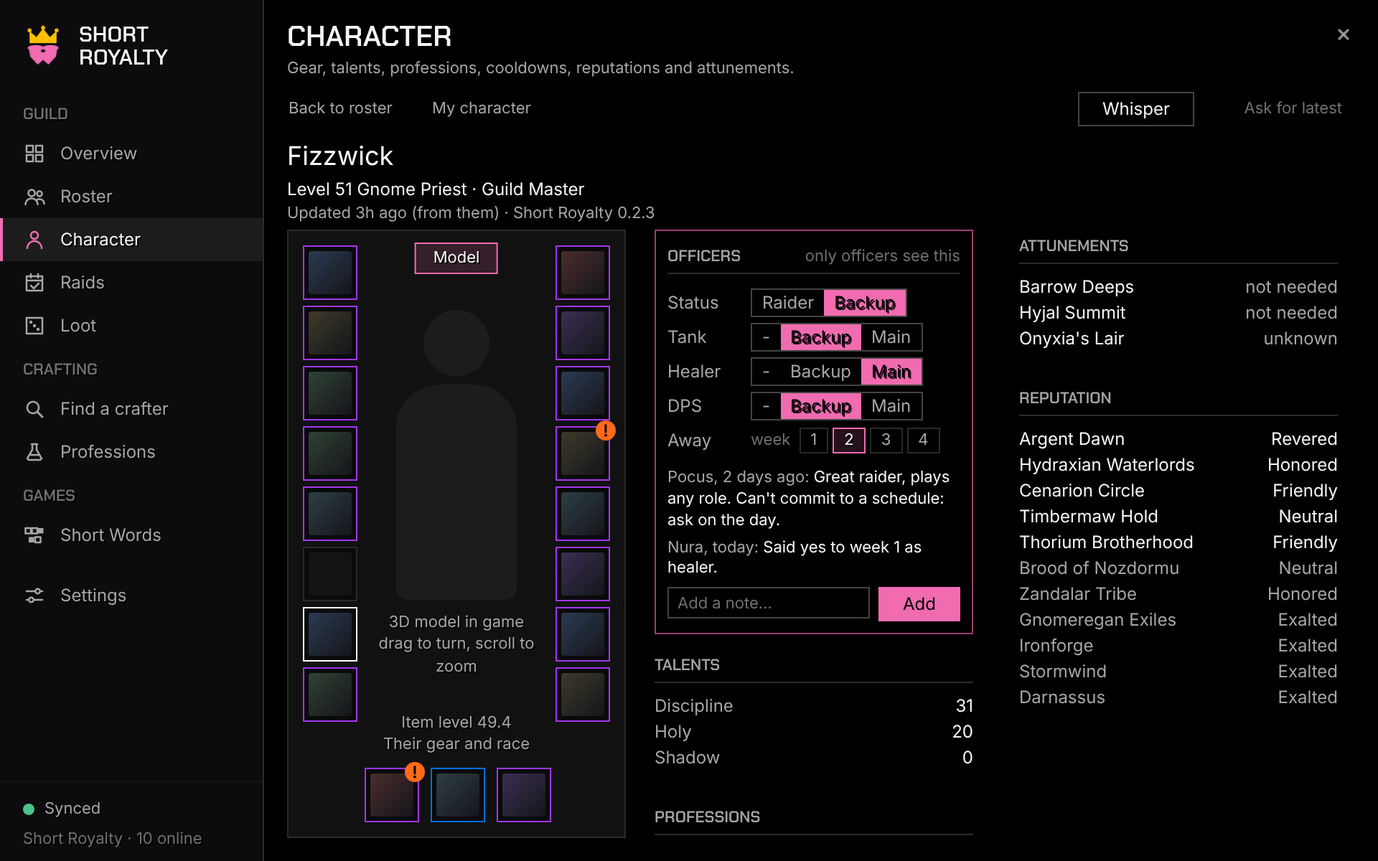
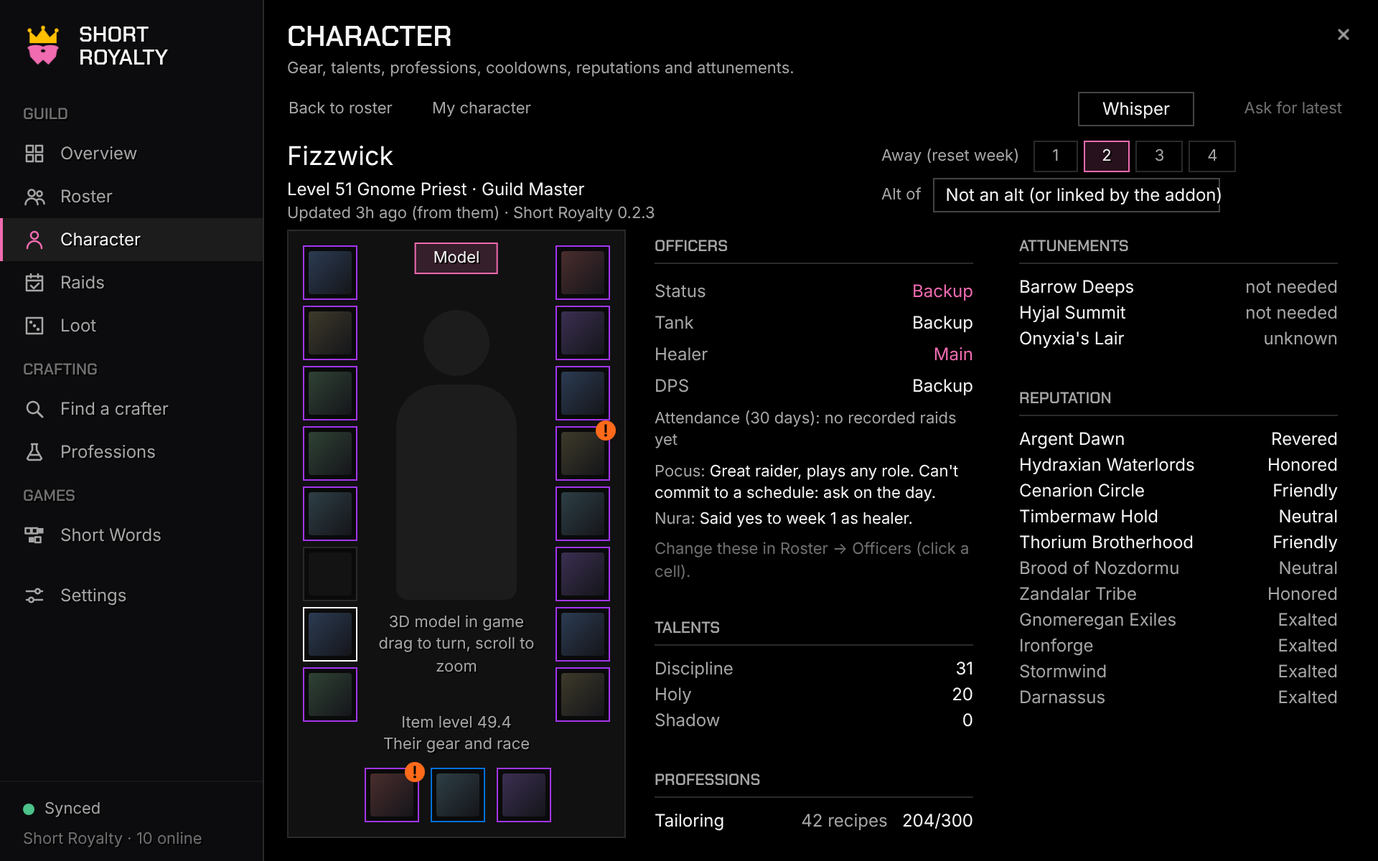
v0.13.0 (not released): docs, pictures and short spec names for the roster planner
Claude-Session: https://claude.ai/code/session_01A7mubGdPYGXe41A4ZcDyrF

diff --git a/preview/index.html b/preview/index.html
@@ -550,70 +550,65 @@ function rosterPlanner() {
     if (t === "b") return `<span style="display:inline-block;width:44px;text-align:center;border:1px solid var(--accent);color:var(--accentLit);font-size:11px;line-height:15px;box-sizing:border-box">Backup</span>`;
     return `<span class="faint" style="display:inline-block;width:44px;text-align:center">·</span>`;
   };
-  const W = { n: 96, sp: 52, st: 62, T: 62, H: 62, D: 62, l: 52, i: 34, a: 38, e: 40, seen: 42 };
-  if (S.planSel) { delete W.seen; delete W.e; delete W.sp; delete W.i; }
-  const NW = S.planSel ? 0 : 744 - Object.values(W).reduce((a, b) => a + b, 0) - 14;
-  const cell = (w, html, r) => `<span class="cell ${r ? "r" : ""}" style="width:${w}px">${html}</span>`;
-  const row = (r, idx) => {
-    const away = r[12] ? ' <span class="bad small">away week 1</span>' : "";
-    const cells = [cell(W.n, cls(r[0]) + (r[13] ? ` <span class="faint small">+${r[13]}</span>` : "")),
-      W.sp ? cell(W.sp, `<span class="dim">${r[1]}</span>`) : "",
-      cell(W.st, r[2] ? `<span class="${r[2] === "Raider" ? "dim" : "acc"}">${r[2]}</span>` : `<span class="spark">Not set</span>`),
-      cell(W.T, roleCell(r, "T")), cell(W.H, roleCell(r, "H")), cell(W.D, roleCell(r, "D")),
+  // Column widths as built (UI/RosterTab.lua PLAN_COLUMNS).
+  const W = { n: 118, sp: 56, st: 58, T: 54, H: 54, D: 54, l: 52, i: 52, a: 36, e: 36, seen: 44 };
+  const NW = 744 - Object.values(W).reduce((a, b) => a + b, 0) - 12;
+  const cell = (w, html, r, pad) => `<span class="cell ${r ? "r" : ""}" style="width:${w}px;${pad === 0 ? "padding:0;text-align:center" : ""}">${html}</span>`;
+  const ILG = { Jumpwick: 3, Plopper: 4, Procella: 2, Thalgrim: 2 };
+  const row = (r) => {
+    const extra = (r[13] ? ` <span class="faint small">+${r[13]}</span>` : "") + (r[12] ? ' <span class="bad small">away</span>' : "");
+    const cells = [cell(W.n, cls(r[0]) + extra),
+      cell(W.sp, `<span class="dim">${r[1]}</span>`),
+      cell(W.st, r[2] ? `<span class="${r[2] === "Raider" ? "dim" : "acc"}">${r[2]}</span>` : `<span class="spark">Not set</span>`, 0, 0),
+      cell(W.T, roleCell(r, "T"), 0, 0), cell(W.H, roleCell(r, "H"), 0, 0), cell(W.D, roleCell(r, "D"), 0, 0),
       cell(W.l, r[4] === 60 ? `<span class="good">60</span>` : `${r[4]}${r[5] ? ` <span class="good small">+${r[5]}</span>` : ""}`, 1),
-      W.i ? cell(W.i, r[6], 1) : "", cell(W.a, r[7] ? `<span class="good">yes</span>` : `<span class="faint">no</span>`, 1)];
-    if (W.e) cells.push(cell(W.e, r[8] ? `<span class="spark">${r[8]}</span>` : `<span class="faint">0</span>`, 1));
-    if (W.seen) cells.push(cell(W.seen, r[9] >= 7 ? `<span class="spark">${r[9]}d</span>` : r[9] ? `${r[9]}d` : `<span class="good">now</span>`, 1));
-    if (!S.planSel) cells.push(cell(NW, r[10] ? `<span class="dim">${esc(r[10])}</span>${away}` : (away || DASH)));
-    return `<div class="row click ${S.planSel && r[0].name === "Mirrel" ? "sel" : ""}">${cells.join("")}</div>`;
+      cell(W.i, `${r[6]}${ILG[r[0].name] ? ` <span class="good small">+${ILG[r[0].name]}</span>` : ""}`, 1),
+      cell(W.a, r[7] ? `<span class="good">yes</span>` : `<span class="faint">no</span>`, 1),
+      cell(W.e, r[8] ? `<span class="spark">${r[8]}</span>` : `<span class="faint">0</span>`, 1),
+      cell(W.seen, r[9] >= 7 ? `<span class="spark">${r[9]}d</span>` : r[9] ? `${r[9]}d` : `<span class="good">now</span>`, 1),
+      cell(NW, r[10] ? `<span class="dim">${esc(r[10])}</span>` : `<span class="faint">add</span>`)];
+    return `<div class="row click">${cells.join("")}</div>`;
   };
-  const shown = filter === "N" ? P.filter((r) => !r[2]) : P.filter((r) => r[3][filter]).sort((a, b) => (a[3][filter] === "m" ? 0 : 1) - (b[3][filter] === "m" ? 0 : 1));
-  const sep = (t) => `<div class="row" style="height:20px;background:var(--rule)"><span class="display faint" style="font-size:10px;letter-spacing:.08em;padding-left:4px">${t}</span></div>`;
+  const sep = (t, away) => `<div class="row" style="height:22px;background:var(--rule)"><span class="small dim" style="padding-left:6px;letter-spacing:.02em">${t}${away ? `  ·  <span class="bad">${away}</span>` : ""}</span></div>`;
   let body = "";
-  if (filter === "N") body = shown.map(row).join("");
+  if (filter === "A") body = P.map(row).join("");
+  else if (filter === "N") body = P.filter((r) => !r[2]).map(row).join("");
   else {
-    const mains = shown.filter((r) => r[3][filter] === "m"), backs = shown.filter((r) => r[3][filter] === "b");
-    body = sep(`MAIN ${mains.length}  ·  ALL 60  ·  ALL ATTUNED  ·  <span class="bad">BRANNOC AWAY WEEK 1</span>`) + mains.map(row).join("") + sep(`BACKUP ${backs.length}  ·  1 AT 60  ·  1 ATTUNED`) + backs.map(row).join("") + sep("NOT SORTED YET, SPEC FITS")
-      + P.filter((r) => !r[2] && r[15] === filter).map(row).join("");
+    const mains = P.filter((r) => r[3][filter] === "m"), backs = P.filter((r) => r[3][filter] === "b");
+    const n60 = (l) => l.filter((r) => r[4] === 60).length, att = (l) => l.filter((r) => r[7]).length;
+    const line = (t, l) => `${t} ${l.length}  ·  ${n60(l) === l.length ? "ALL" : n60(l)} AT 60  ·  ${att(l) === l.length ? "ALL" : att(l)} ATTUNED`;
+    const awayM = mains.filter((r) => r[12]).map((r) => r[0].name.toUpperCase());
+    body = sep(line("MAIN", mains), awayM.length ? awayM.join(", ") + " AWAY WEEK 1" : "") + mains.map(row).join("")
+      + sep(line("BACKUP", backs)) + backs.map(row).join("")
+      + sep("NOT SORTED YET, SPEC FITS") + P.filter((r) => !r[2] && r[15] === filter).map(row).join("");
   }
-  const headCols = [["n", "Name"], ["sp", "Spec"], ["st", "Status"], ["T", "Tank"], ["H", "Healer"], ["D", "DPS"], ["l", "Level", 1], ["i", "iLvl", 1], ["a", "Att.", 1], ["e", "Ench.", 1], ["seen", "Seen", 1]];
-  const head = `<div class="lhead">${headCols.filter(([k]) => W[k]).map(([k, t, r]) => `<span class="${r ? "r" : ""} ${k === filter ? "sorted" : ""}" style="width:${W[k]}px;${"THD".includes(k) && k.length === 1 ? "justify-content:center" : ""}">${t}</span>`).join("")}${S.planSel ? "" : `<span style="width:${NW}px">Note</span>`}</div>`;
-  // Role chips filter the list (mains, then backups, then unsorted people whose spec fits); counts = main + backup.
+  const headCols = [["n", "Name"], ["sp", "Spec"], ["st", "Status"], ["T", "Tank"], ["H", "Healer"], ["D", "DPS"], ["l", "Level", 1], ["i", "iLvl", 1], ["a", "Ony", 1], ["e", "Ench.", 1], ["seen", "Seen", 1]];
+  const head = `<div class="lhead">${headCols.map(([k, t, r]) => `<span class="${r ? "r" : ""}" style="width:${W[k]}px;${"THD".includes(k) && k.length === 1 ? "justify-content:center" : ""}">${t}</span>`).join("")}<span style="width:${NW}px">Note</span></div>`;
   const chips = [["A", "All", 46], ["T", "Tanks", "2+3"], ["H", "Healers", "4+3"], ["D", "DPS", "25+3"], ["N", "Not sorted", 12]]
-    .map(([k, t, n]) => `<span class="chip ${filter === k ? "on" : ""}">${t} <span class="${filter === k ? "" : "faint"}" style="margin-left:5px">${n}</span></span>`).join("");
-  const top = `<div class="abs" style="left:0;top:1px;display:flex;gap:4px">${chips}</div>
-    <div class="search" style="position:absolute;left:584px;top:0;width:160px"><input placeholder="Search name or note" value=""></div>
-    <div class="abs" style="left:0;top:33px;display:flex;gap:4px;align-items:center;width:744px">${["Raider", "Backup", "Needs a look 9"].map((t) => `<span class="chip" style="white-space:nowrap">${t}</span>`).join("")}
-      <span class="faint small" style="margin-left:10px;white-space:nowrap">Click a status, role or note to change it.</span>
-      <span style="margin-left:auto">${btn("Sign-ups for: none").replace("</span>", '<i class="arrow"></i></span>')}</span></div>`;
-  const cov = "", legend = "";
-  const listW = S.planSel ? 744 - 290 : 744;
-  const lst = `<div class="list" style="left:0;top:68px;bottom:0;width:${listW}px">${head}<div class="lbody" style="top:var(--sz-header)">${body}</div></div>`;
-  let drawer = "";
-  if (S.planSel) {
-    const seg = (opts, on) => `<span style="display:inline-flex;border:1px solid var(--lineStrong)">${opts.map((o) => `<span style="padding:2px 7px;font-size:12px;${o === on ? "background:var(--accent);color:var(--onAccent)" : "color:var(--dim)"}">${o}</span>`).join("")}</span>`;
-    const lbl = (t, y) => `<div class="abs display dim" style="left:14px;top:${y}px;font-size:10.5px;letter-spacing:.08em">${t}</div>`;
-    drawer = `<div class="abs" style="right:0;top:122px;bottom:0;width:282px;background:var(--surface);border:1px solid var(--lineStrong)">
-      <div class="abs" style="left:14px;top:8px;font-size:15px">${cls(C("SHAMAN", "Mirrel"))} <span class="dim small">Social</span></div>
-      <div class="abs dim small" style="left:14px;top:28px;width:256px;line-height:1.4">Resto (0/21/30)  ·  level 60  ·  iLvl 65  ·  attuned<br>Alts: <span style="color:#F48CBA">Mirrelia</span> 60 Holy, Mirrbank 12</div>
-      ${lbl("STATUS", 66)}<div class="abs" style="left:14px;top:82px">${seg(["Core", "Backup", "Trial", "Not raiding"], "Backup")}</div>
-      ${lbl("AWAY (RESET WEEKS)", 112)}<div class="abs" style="left:14px;top:128px;display:flex;gap:4px">${["Wk 1 · 9 Dec", "Wk 2", "Wk 3", "Wk 4"].map((d, i) => `<span class="chip ${i === 1 ? "on" : ""}">${d}</span>`).join("")}</div>
-      ${lbl("NOTES", 160)}
-      <div class="abs small" style="left:14px;top:176px;width:256px;line-height:1.35"><span class="dim">Pocus, 2 days ago:</span> Great raider, plays any role. Can't commit to a schedule: ask on the day.</div>
-      <div class="abs small" style="left:14px;top:226px;width:256px;line-height:1.35"><span class="dim">Nura, today:</span> Said yes to week 1 as healer.</div>
-      <div class="abs small faint" style="left:14px;top:262px;width:256px;height:30px;padding:6px 8px;box-sizing:border-box;background:var(--void);border:1px solid var(--lineStrong)">Add a note…</div>
-      <div class="abs" style="left:14px;top:300px">${btn("Add note", "primary")} ${btn("Character")}</div>
-      <div class="abs faint small" style="left:14px;top:334px;width:256px">Last 7 days: no change  ·  seen 2 days ago.</div></div>`;
-  }
+    .map(([k, t, n]) => `<span class="chip ${filter === k ? "on" : ""}" style="white-space:nowrap">${t}&nbsp;&nbsp;<span class="${filter === k ? "" : "faint"}">${n}</span></span>`).join("");
+  const summary = filter === "A"
+    ? "46 players  ·  31 at 60 (6 this week)  ·  8 at 55-59  ·  22 attuned to Onyxia  ·  11 missing enchants  ·  5 without the addon"
+    : "Click a status, role or note to change it. Click a name for their character. Planning: Week 1 (9 Dec).";
+  const top = `<div class="search abs" style="left:0;top:0;width:240px"><input placeholder="Search name, profession, note" value=""></div>
+    <div class="menu abs" style="left:248px;top:0;width:28px">${btn("···", "", 'style="padding:0;width:28px;justify-content:center"')}</div>
+    <span class="chip on" style="position:absolute;left:284px;top:1px">Officers</span>
+    <div class="abs dim small" style="right:0;top:6px">46 players  ·  officers only</div>
+    <div class="abs" style="left:0;top:34px;display:flex;gap:4px;align-items:center">${chips}<span style="width:12px"></span>${["Raider", "Backup", "Needs a look  9"].map((t) => `<span class="chip" style="white-space:nowrap">${t}</span>`).join("")}</div>
+    <div class="abs small dim ell" style="left:0;right:212px;top:${66 + 5}px">${summary}</div>
+    <div class="menu abs" style="right:0;top:66px;width:200px">${btn("Sign-ups: none").replace("</span>", '<i class="arrow"></i></span>')}</div>`;
+  const lst = `<div class="list" style="left:0;top:100px;bottom:0;width:744px">${head}<div class="lbody" style="top:var(--sz-header)">${body}</div></div>`;
+  // Clicking a role or status cell opens a small menu (no accidental changes).
+  const menu = S.planMenu ? `<div class="abs" style="left:${104 + 62 + 58 + 4}px;top:${100 + 22 + 22 + 22 * 2 + 22 + 2}px;width:120px;background:var(--surface);border:1px solid var(--lineStrong);z-index:6">
+      ${[["Main", 0], ["Backup", 1], ["No", 0]].map(([t, on]) => `<div class="small" style="height:24px;line-height:24px;padding-left:22px;position:relative;${t === "Main" ? "background:var(--raised)" : ""}">${on ? '<i style="position:absolute;left:8px;top:8px;width:8px;height:8px;border-radius:50%;background:var(--accent)"></i>' : ""}${t}</div>`).join("")}</div>` : "";
   // v3: clicking a note cell opens a small box over the table: every note with its author, and a line to add one.
   let notePop = "";
-  if (S.noteOpen) notePop = `<div class="abs" style="left:420px;top:${68 + 22 + 3 * 22 + 2 * 22 + 22 + 20}px;width:324px;background:var(--raised);border:1px solid var(--accent);padding:10px 12px;box-shadow:0 6px 18px rgba(0,0,0,.6);z-index:5">
-      <div style="display:flex;align-items:baseline"><span>${cls(C("SHAMAN", "Mirrel"))}</span><span class="display dim" style="font-size:10.5px;letter-spacing:.08em;margin-left:8px">NOTES</span><span class="faint small" style="margin-left:auto">Esc to close</span></div>
-      <div class="small" style="margin-top:6px;line-height:1.35"><span class="dim">Pocus, 2 days ago:</span> Great raider, plays any role. Can't commit to a schedule: ask on the day.</div>
-      <div class="small" style="margin-top:5px;line-height:1.35"><span class="dim">Nura, today:</span> Said yes to week 1 as healer.</div>
-      <div style="display:flex;gap:6px;margin-top:8px"><span class="small" style="flex:1;height:24px;line-height:22px;padding:0 6px;border:1px solid var(--accent);background:var(--void)">Happy to tank Onyxia if needed|</span>${btn("Add", "primary")}</div>
-      <div class="faint small" style="margin-top:6px">Your own notes can be edited or removed. Only officers see notes.</div></div>`;
-  return top + cov + legend + lst + drawer + notePop;
+  if (S.noteOpen) notePop = `<div class="abs" style="right:0;top:${100 + 22 + 22 + 22 * 2 + 22 * 2 + 22}px;width:330px;background:var(--raised);border:1px solid var(--accent);padding:10px 12px;box-shadow:0 6px 18px rgba(0,0,0,.6);z-index:5">
+      <div style="display:flex;align-items:baseline"><span>${cls(C("SHAMAN", "Mirrel"))}</span><span class="dim small" style="margin-left:8px">notes</span><span class="faint" style="margin-left:auto">×</span></div>
+      <div class="small" style="margin-top:6px;line-height:1.35"><span class="dim">Pocus, 2d ago:</span> Great raider, any role. Can't commit: ask on the day.</div>
+      <div class="small" style="margin-top:5px;line-height:1.35"><span class="dim">Nura, 3h ago:</span> Said yes to week 1 as healer.</div>
+      <div class="small" style="margin-top:8px;height:24px;line-height:22px;padding:0 6px;border:1px solid var(--lineStrong);background:var(--void)">Happy to tank Onyxia if needed|</div>
+      <div style="display:flex;gap:6px;margin-top:6px;align-items:center">${btn("Save my note", "primary")}${btn("Remove mine")}<span class="faint small" style="margin-left:auto">Officers only</span></div></div>`;
+  return top + lst + menu + notePop;
 }
 
 function roster() {
@@ -643,15 +638,20 @@ function roster() {
 // v0.13.0 (proposal v3): the officers' box on the Character page, for players
 // opened from the roster planner (officers only).
 function offBlock(w) {
-  const seg = (opts, on) => `<span style="display:inline-flex;border:1px solid var(--lineStrong)">${opts.map((o) => `<span style="padding:0 7px;font-size:12px;line-height:18px;${o === on ? "background:var(--accent);color:var(--onAccent)" : "color:var(--dim)"}">${o}</span>`).join("")}</span>`;
-  const r = (l, v) => `<div style="display:flex;align-items:center;height:24px"><span class="dim" style="width:58px">${l}</span>${v}</div>`;
-  return `<div class="block" style="border:1px solid var(--accentDeep);padding:6px 8px 8px;margin-bottom:10px"><div class="bhead"><span class="h display">Officers</span><span class="faint small">only officers see this</span></div>
-    ${r("Status", seg(["Raider", "Backup"], "Backup"))}
-    ${r("Tank", seg(["-", "Backup", "Main"], "Backup"))}${r("Healer", seg(["-", "Backup", "Main"], "Main"))}${r("DPS", seg(["-", "Backup", "Main"], "Backup"))}
-    ${r("Away", `<span style="display:flex;gap:3px;align-items:center"><span class="faint small" style="margin-right:3px">week</span>${["1", "2", "3", "4"].map((d, i) => `<span class="chip ${i === 1 ? "on" : ""}" style="height:18px;padding:0 7px">${d}</span>`).join("")}</span>`)}
-    <div class="small" style="margin-top:6px;line-height:1.35"><span class="dim">Pocus, 2 days ago:</span> Great raider, plays any role. Can't commit to a schedule: ask on the day.</div>
-    <div class="small" style="margin-top:4px;line-height:1.35"><span class="dim">Nura, today:</span> Said yes to week 1 as healer.</div>
-    <div style="display:flex;gap:6px;margin-top:6px"><span class="small faint" style="flex:1;height:22px;line-height:20px;padding:0 6px;border:1px solid var(--lineStrong);background:var(--void)">Add a note…</span>${btn("Add", "primary")}</div></div>`;
+  // As built (UI/CharacterTab.lua): read-only rows; changes happen in Roster → Officers.
+  const r = (l, v, tone) => `<div style="display:flex;height:22px;align-items:center"><span class="dim" style="flex:1">${l}</span><span class="${tone || ""}">${v}</span></div>`;
+  return `<div class="block"><div class="bhead"><span class="h display">Officers</span></div>
+    ${r("Status", "Backup", "acc")}${r("Tank", "Backup")}${r("Healer", "Main", "acc")}${r("DPS", "Backup")}
+    <div class="small dim" style="margin-top:4px">Attendance (30 days): no recorded raids yet</div>
+    <div class="small" style="margin-top:6px;line-height:1.35"><span class="dim">Pocus:</span> Great raider, plays any role. Can't commit to a schedule: ask on the day.</div>
+    <div class="small" style="margin-top:4px;line-height:1.35"><span class="dim">Nura:</span> Said yes to week 1 as healer.</div>
+    <div class="small faint" style="margin-top:6px">Change these in Roster → Officers (click a cell).</div></div>`;
+}
+// The officers' strip, top right of the Character page: away weeks and Alt of.
+function offStrip() {
+  return `<div class="abs" style="right:0;top:34px;width:330px">
+    <div style="display:flex;gap:4px;align-items:center"><span class="dim small" style="margin-right:6px">Away (reset week)</span>${[1, 2, 3, 4].map((w) => `<span class="chip ${w === 2 ? "on" : ""}">${w}</span>`).join("")}</div>
+    <div style="display:flex;gap:8px;align-items:center;margin-top:4px"><span class="dim small">Alt of</span><span class="menu" style="position:relative;width:200px">${btn("Not an alt (or linked by the addon)").replace("</span>", '<i class="arrow"></i></span>')}</span></div></div>`;
 }
 
 function character() {
@@ -697,7 +697,7 @@ function character() {
         ${block("Reputation", [["Argent Dawn", "Revered"], ["Hydraxian Waterlords", "Honored"], ["Cenarion Circle", "Friendly"], ["Timbermaw Hold", "Neutral"], ["Thorium Brotherhood", "Friendly"],
           ["Brood of Nozdormu", "Neutral"], ["Zandalar Tribe", "Honored"]].map((r, i) => ({ label: r[0], lt: i < 5 ? 1 : 0, value: r[1], tone: i < 5 ? "" : "dim" })).concat(
           ["Gnomeregan Exiles", "Ironforge", "Stormwind", "Darnassus"].map((f) => ({ label: f, value: "Exalted", tone: "dim" }))))}</div>`;
-  return head + `<div class="abs ell" style="left:0;right:0;top:34px;font-size:var(--fnm);line-height:22px">${cls(m)}</div>
+  return head + (S.offCard ? offStrip() : "") + `<div class="abs ell" style="left:0;right:0;top:34px;font-size:var(--fnm);line-height:22px">${cls(m)}</div>
     <div class="abs" style="left:0;top:60px">${info}</div><div class="abs dim ell small" style="left:0;right:0;top:77px">${meta}</div>
     <div class="doll">${doll}${center}</div>${details}`;
 }
@@ -1395,7 +1395,7 @@ function seg(id) {
 try { Object.assign(S, JSON.parse(localStorage.getItem("skPreview") || "{}")); } catch (e) { /* ignore */ }
 // ?screen=roster&data=worst&view=before&raid=ony  (and &shot=1 for the README pictures: window only, no chrome)
 const Q = new URLSearchParams(location.search);
-for (const k of ["screen", "data", "view", "raid", "prof", "profView", "start", "crafter", "remind", "model", "accent", "font", "setView", "wordsView", "wordsBoard", "wordsDone", "wordsCB", "raidsView", "attView", "officer", "lootView", "lootMode", "rosterView", "planSel", "planRole", "offCard", "charIdx", "noteOpen"]) if (Q.get(k)) S[k] = Q.get(k);
+for (const k of ["screen", "data", "view", "raid", "prof", "profView", "start", "crafter", "remind", "model", "accent", "font", "setView", "wordsView", "wordsBoard", "wordsDone", "wordsCB", "raidsView", "attView", "officer", "lootView", "lootMode", "rosterView", "planSel", "planRole", "offCard", "charIdx", "noteOpen", "planMenu"]) if (Q.get(k)) S[k] = Q.get(k);
 const SHOT = Q.get("shot");
 if (SHOT) {
   document.body.classList.add("shot"); S.view = SHOT === "compare" ? "before" : "after"; S.reduce = true;

diff --git a/docs/mockups/render.js b/docs/mockups/render.js
@@ -42,9 +42,9 @@ const SHOTS = {
   "raids-groups": ["shot=1&screen=raids&data=full&officer=1&raidsView=groups", W, H],
   "raids-assign": ["shot=1&screen=raids&data=full&officer=1&raidsView=assign", W, H],
   "raids-calendar": ["shot=1&screen=raids&data=full&raidsView=calendar", W, H],
-  "roster-officers": ["shot=1&screen=roster&data=full&officer=1&rosterView=officers", W, H],
-  "roster-planner": ["shot=1&screen=roster&data=full&officer=1&rosterView=planner", W, H],
-  "roster-planner-note": ["shot=1&screen=roster&data=full&officer=1&rosterView=planner&noteOpen=1", W, H],
+  "roster-planner": ["shot=1&screen=roster&data=full&officer=1&rosterView=planner&planRole=T&planMenu=1", W, H],
+  "roster-planner-all": ["shot=1&screen=roster&data=full&officer=1&rosterView=planner&planRole=A", W, H],
+  "roster-planner-note": ["shot=1&screen=roster&data=full&officer=1&rosterView=planner&planRole=H&noteOpen=1", W, H],
   "roster-planner-character": ["shot=1&screen=character&data=full&officer=1&offCard=1", W, H],
   "raids-new": ["shot=1&screen=raids&data=full&officer=1&raidsView=new", W, H],
   "raids-attendance": ["shot=1&screen=raids&data=full&officer=1&raidsView=attendance", W, H],

diff --git a/README.md b/README.md
@@ -42,7 +42,7 @@
 | | What you get |
 |---|---|
 | 🏰 **Overview** | The guild at a glance: four numbers, what needs a look, raid readiness and recent milestones |
-| 👥 **Roster** | The whole guild in one sortable, searchable list, with alts folded under mains and a raid-attunement view; for officers an **Officers** view with roles, notes, alt links and attendance |
+| 👥 **Roster** | The whole guild in one sortable, searchable list, with alts folded under mains and a raid-attunement view; for officers the **raid roster planner**: Raider or Backup, Main or Backup per role, level, gear, attunement and notes from every officer in one table |
 | 🛡 **Character** | Anyone's gear, talents, professions, cooldowns, attunements and reputations |
 | 📅 **Raids** | Guild raids made in the addon by officers and raid leaders; sign up with your role and see who's coming, with readiness and who's **In** or on the **Bench**; **Groups** of five (drag and drop, **Auto-fill**, **Invite & arrange**), **boss assignments**, **away days** on a calendar; **Copy for Discord** and **Import sign-ups from Discord**, and our own **Discord bot** with sign-up buttons; for officers (`/sr officer`) **New raid** and automatic **attendance** (on time, late, didn't attend, bench) with totals, shared between all officers |
 | 🎲 **Loot** (Reserve+) | Soft reserves with **bonus points**: reserve items for a raid night, and every night you don't get one it gains points (no cap) that are added to your roll next time; your points, everyone's, and a history of every change; for officers a **Loot night** screen (rolls ranked, award, raid check, end-of-night bonus) and **Rules** (reserves per raid, bonus, loot lists) |
@@ -94,15 +94,21 @@ Onyxia's Lair, Forever's first wave) to see who's attuned:
 - Filters **All / Attuned / Not attuned / Unknown**, a count such as "23 attuned · 9 not · 6 unknown", and **Max level only** (on by default).
 - Every character gets its own row, alts included, with "alt of X" in the tooltip. Your choices are remembered.
 
-**Officers view** (v0.10.1). Officers and raid leaders with `/sr officer` get an
-**Officers** chip next to the ··· menu:
+**Officers view: the raid roster planner** (v0.13.0; from the officers' feedback). Officers and raid leaders with `/sr officer` get an **Officers** chip next to the ··· menu: the static raid roster as one table, one row per player (alts folded into their main), with level, gear and attunement filled in by the addon.
 
-<p align="center"><img src="docs/images/roster-officers.png" alt="Roster, Officers view: roles, attendance and notes, with the editor on the right" width="100%"></p>
+<p align="center"><img src="docs/images/roster-planner-all.png" alt="Roster planner: one row per player with status, Tank/Healer/DPS, level, item level, attunement, enchants, data age and notes" width="100%"></p>
 
-- Every member of every rank, with alts under their main (linked by an officer, or by the addon once both characters have logged in with it).
-- Columns: **Roles** (any of Tank, Healer, DPS), **Attend.** (attendance over the last 30 days, from the Attendance tab) and **Note**.
-- Click a name to edit on the right: tick their **roles**, link them as an **alt of** another character, and write an **officer note** (up to 300 characters, plain text). Right-click opens their character.
+- **Chips with counts**: All, **Tanks 2+3** (mains + backups), Healers, DPS, **Not sorted** (no status or roles yet: the people to get to know), plus Raider, Backup and **Needs a look** (not 60, not attuned, missing enchants, no addon, or data a week old). "All" shows the whole guild in one line: players at 60 (and how many reached it this week), at 55-59, attuned to Onyxia, missing enchants, without the addon.
+- **Columns**: name (+2 = alts; "away" when they're away this reset week), spec, **Status** (Raider or Backup; not the guild rank), **Tank / Healer / DPS** (Main filled, Backup outlined), level and item level with what they gained in the last 7 days, Onyxia attunement, missing enchants, **Seen** (how old their data is; orange after a week), and **Note**. Click a column title to sort.
+- **Click a status or role cell** for a small menu (Main / Backup / No): no accidental changes. **Click a note cell** to read every officer's note (who wrote it and when) and write or remove your own. **Click a name** for their full Character page.
+- A role chip shows its **mains**, then its **backups**, then **unsorted players whose spec fits** (an unsorted Prot warrior under Tanks); each group's header says how many are 60 and attuned, and who's **away this reset week**.
+- **Sign-ups** (menu, optional): pick a raid and the Seen column shows who signed up for it.
+- The Character page gets an **Officers** section (status, roles, attendance, notes) and, top right, **Away** by reset week (week 1 = 9 Dec) and **Alt of**. Auto-fill on the Raids → Groups page puts Raiders and officer-set mains first.
+- **Taller window** in the ··· menu for long lists.
 - Shared only between officers and raid leaders, by whisper: changes reach the others online within a minute, and the rest when they log in. Members never receive any of it.
+
+<p align="center"><img src="docs/images/roster-planner.png" alt="Roster planner, Tanks: mains, backups and unsorted tanks, with a role menu open" width="100%"></p>
+<p align="center"><img src="docs/images/roster-planner-note.png" alt="Roster planner: the notes box on a note cell" width="100%"></p>
 
 ### 🛡 Character
 <p align="center"><img src="docs/images/character.png" alt="Character tab" width="100%"></p>

diff --git a/CLAUDE.md b/CLAUDE.md
@@ -32,6 +32,44 @@ our own **Discord bot** (v0.12.0, `discord-bot/`, a Cloudflare Worker),
 bridged to the addon only by copy and paste.
 
 ## Start here (handover, 14 Nov 2026)
+- **v0.13.0 (built 21 Nov on the branch, NOT released; owner: "build
+  that"): the raid roster planner** (officers' feedback 21 Nov; three mock-up
+  rounds in `docs/proposals/raid-roster-planner.md`; officer: static roster,
+  table only, statuses Raider/Backup not tied to ranks, click a name → the
+  Character page, click a note cell → notes).
+  - `Core/OfficerDir.lua` new kinds: `t` tiers ("mb-" for T/H/D; v0.10.1
+    `r` roles read as mains), `s` status r/b, `w` away weeks "1,3",
+    `m:<member>:<author>` per-officer notes (by must equal author; legacy
+    `n` shows as its writer's note; `SetMyNote` moves it). `TiersOf/
+    StatusOf/AwayOf/NotesOf`, `SetTier/SetStatus/ToggleAway/SetMyNote`.
+    `Split` returns kind, member, author. MAX_ENTRIES 4000. OfficerSync sends
+    60 per OR (`MAX_ITEMS`), reads 120 (`MAX_RECEIVE`).
+  - `Core/RosterPlan.lua` (pure): `Build(ctx)` one row per player (alts by
+    officer link or `Alts.Groups` folded into the main; Alt-rank characters
+    left out), short spec names `SHORT_SPEC`, `View(rows, {role A|T|H|D|N,
+    status, needs, search, week})` (role → section rows: mains, backups,
+    unsorted whose `Data.GuessRole` fits; headers with at-60/attuned/away),
+    `Counts`, `Summary/SummaryText`, `GroupSort(cmp, isDesc)` (keeps headers
+    on top in either sort direction), `DefaultOrder`, `AgeText`, reset weeks
+    `RESET0` 1796774400 (Wed 9 Dec 2026 00:00 UTC = week 1), `Week/
+    WeekStart/PlanWeek/WeekLabel/WeeksOffered`, progress `Record/Gain`
+    (`SK.DB.rosterProgress`, local, 35 days, gain vs ≥7 days ago).
+  - `UI/RosterTab.lua`: the Officers chip shows the planner
+    (`BuildOfficers/RefreshOfficers`; `PLAN_COLUMNS` with `click` cells drawn
+    as pill buttons via List `decorate/update`; `W.PopMenu` cell menus,
+    `Roster.CellItems`; note box `BuildNotes/OpenNotes/SaveMyNote`;
+    `settings.planner` {role, status, needs}; `Roster.signupsFor` turns the
+    Seen column into Signed). `W.Chip:SetText`, `W.PopMenu` are new widgets.
+  - `UI/CharacterTab.lua`: officers get an Officers section (`OfficerRows`,
+    also for players without data, in column B) and a strip top right
+    (Away chips for `WeeksOffered`, Alt of menu). `UI/MainFrame.lua`
+    `TALL` 200, `TallH/SetTall` (`settings.window.tall`), ··· "Taller window".
+  - `RaidGroups.AutoFill(L, raidKey, pct, plan)`: Raiders before Backups,
+    officer-set mains for the signed-up role before backups.
+  - Tests `tests/v0130_planner_spec.lua`; v0101 UI test rewritten. Pictures
+    `roster-planner*.png` (preview `rosterView=planner`, `planRole`,
+    `planMenu`, `noteOpen`; `screen=character&offCard=1`). TESTING 67–74.
+    Officer guide not yet updated for v0.13.0.
 - **v0.12.0 (released 20 Nov on `main`, owner: "push to main"): our own Discord
   bot** (owner: "I want it to be our own rather than something we use
   externally"; earlier: Discord "shouldn't require any PC programs"). Setup
@@ -133,7 +171,8 @@ bridged to the addon only by copy and paste.
   (list 470 + editor: role chips, Alt-of menu, note EditBox + Save,
   `Roster.AttendanceText`, 30-day `Attendance.Totals`). `/sr debug`
   "Officer roster" line. Tests `tests/v0101_officer_roster_spec.lua`,
-  security case. Picture `roster-officers.png` (`rosterView=officers`).
+  security case. (Picture `roster-officers.png` removed in v0.13.0: the
+  Officers view is now the roster planner.)
   TESTING 52–54. Officer-set roles aren't used in raid line-ups yet.
 - **v0.10.0 (released 20 Nov on `main`, owner: "I need this live asap for testing"): In or Bench, Discord by copy and paste.** The
   officers' asks (review `docs/proposals/officer-roster-and-calendar.md`);

diff --git a/CHANGELOG.md b/CHANGELOG.md
@@ -1,5 +1,30 @@
 # Changelog
 
+## v0.13.0 (not released yet): the raid roster planner
+
+From the officers' feedback: one overview of the static raid roster.
+
+- **Roster → Officers** is now the **raid roster planner** (officers and
+  raid leaders with `/sr officer`): one row per player (alts folded into
+  their main) with **Status** (Raider or Backup, separate from guild ranks),
+  **Tank / Healer / DPS** as **Main** or **Backup**, spec, level and item
+  level (with the last 7 days' gain), Onyxia attunement, missing enchants,
+  how old their data is, and notes.
+- Chips with counts: **All**, **Tanks 2+3** (mains + backups), Healers, DPS,
+  **Not sorted**, plus Raider, Backup and **Needs a look**. A role shows its
+  mains, backups, then unsorted players whose spec fits, with who's away this
+  reset week. "All" sums up the guild: at 60, 55-59, attuned, enchants.
+- Click a status or role cell for a menu; click a **note** to read every
+  officer's note and write your own (each with its author and date); click a
+  **name** for the Character page. Columns sort. Optional **Sign-ups** column
+  for a raid.
+- Character page (officers): an **Officers** section, and **Away** by reset
+  week (week 1 = 9 Dec) and **Alt of** at the top right.
+- **Taller window** in the Roster's ··· menu.
+- Raids → Groups **Auto-fill** puts Raiders and officer-set mains first.
+- Officer roles from v0.10.1 count as mains; the old single officer note
+  shows as its writer's note. Everyone sharing it needs v0.13.0.
+
 ## v0.12.0 (20 Nov 2026): our own Discord bot
 
 - **Short Royalty's own Discord bot** (code in `discord-bot/`, runs free on

diff --git a/TESTING.md b/TESTING.md
@@ -263,3 +263,24 @@ addon read.
     `/link`. After `/link Their Name`, the button puts them on the post.
 66. [ ] **Copy for the addon** → in game *Import sign-ups from Discord* →
     paste → Import: those players appear in the line-up.
+
+## v0.13.0 Raid roster planner (officers, with /sr officer)
+
+67. [ ] **Roster → Officers**: one row per player (no Alt-rank characters,
+    alts shown as "+1"). The "All" line under the chips adds up (at 60,
+    attuned, missing enchants, without the addon).
+68. [ ] Click a **Tank / Healer / DPS** cell: a small menu, pick Main or
+    Backup. Click **Status**: Raider or Backup. Another officer on v0.13.0
+    sees the same within a minute.
+69. [ ] **Tanks** chip: mains, then backups, then unsorted players with a
+    tanking spec. Mark someone away for this week (Character page, Away):
+    the Main header shows "NAME AWAY WEEK n" in red.
+70. [ ] Click a **note** cell: write a note, Save my note. Another officer
+    adds theirs: both show, with names and how long ago. Remove mine works.
+71. [ ] Click a **name**: their Character page has an **Officers** section;
+    **Alt of** links an alt (it disappears from the planner, "+1" on the main).
+72. [ ] **Needs a look**, **Raider**, **Backup** filters; column titles sort;
+    **Sign-ups** menu shows who signed up for a raid.
+73. [ ] ··· → **Taller window**: the window grows; the list shows more rows.
+74. [ ] Tomorrow, level and item level show "+N" for people who levelled or
+    upgraded (each officer's game remembers what it saw each day).

diff --git a/docs/SECURITY-REVIEW.md b/docs/SECURITY-REVIEW.md
@@ -208,3 +208,15 @@ the Officers view and its tooltip.
   and wrangler to an exact version.
 - Data kept: Discord user IDs, linked character names, sign-ups; raids and
   sign-ups are deleted 14 days after the start.
+
+## Addendum (21 Nov 2026, v0.13.0 roster planner)
+
+- New officer-roster kinds over the existing OR/OQ whispers (officers only,
+  sender and `by` checked against the receiver's roster): `t` tiers (exactly
+  three of `-mb`), `s` status (`r`, `b` or empty), `w` away weeks (up to 12
+  numbers 1-999), `m:<member>:<author>` notes (plain text, 300 characters,
+  no `|` or control characters, and **`by` must be the author in the key**,
+  so one officer can't write another's note). Older versions reject the new
+  kinds without striking the sender. OR now sends at most 60 entries per
+  message (notes are long) and still reads 120.
+- The level/item level history is local to each officer's game (never sent).

diff --git a/docs/proposals/raid-roster-planner.md b/docs/proposals/raid-roster-planner.md
@@ -1,4 +1,10 @@
-# Raid roster planner (proposal, 21 Nov 2026)
+# Raid roster planner (built in v0.13.0, 21 Nov 2026)
+
+Built from version 3 below with the four review fixes: an "All" summary
+line, cell menus instead of cycling, clearer columns (Ony, away in the row,
+item level gain, alts on hover), sortable columns and players without the
+addon. Status/roles/notes are changed in the table; away weeks and Alt of on
+the Character page; "Taller window" in the Roster ··· menu.
 
 From the officers' feedback (21 Nov): raids open on 9 Dec, the guild grew
 fast, and the officers don't all know everyone. They want **one overview**
